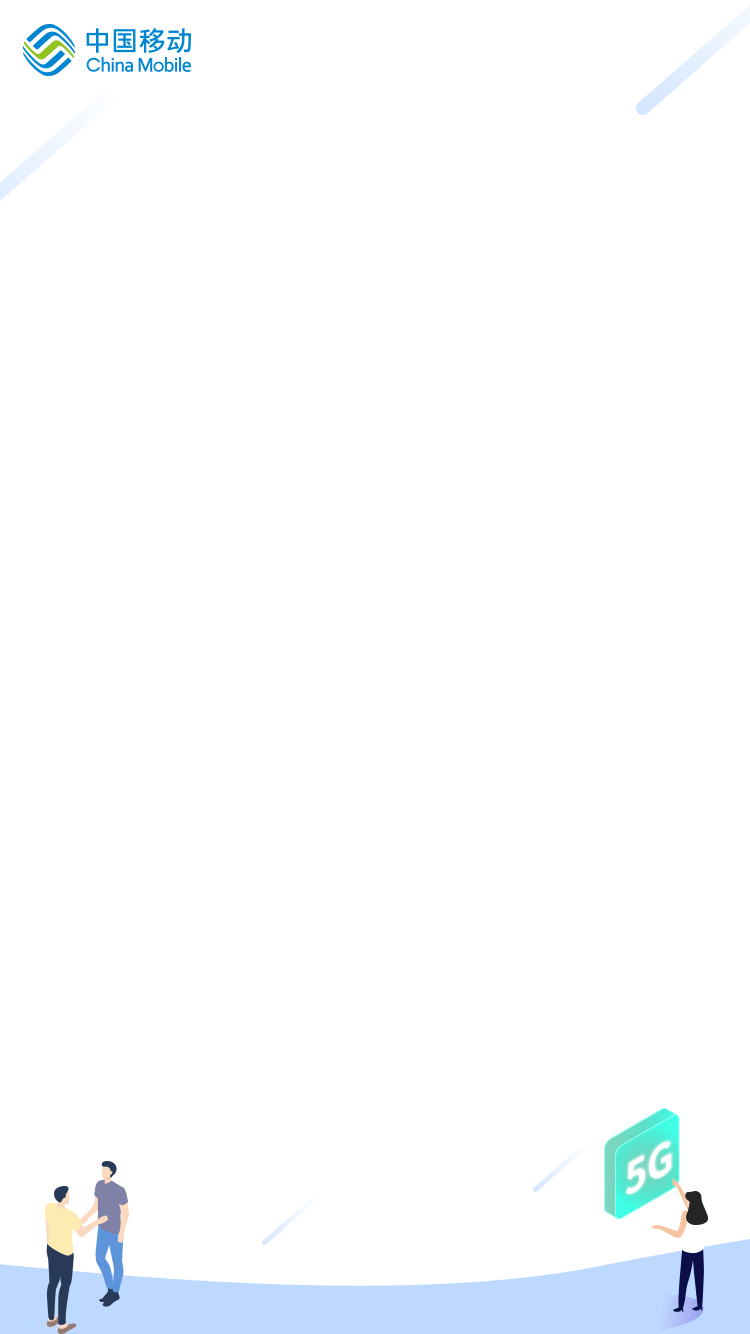
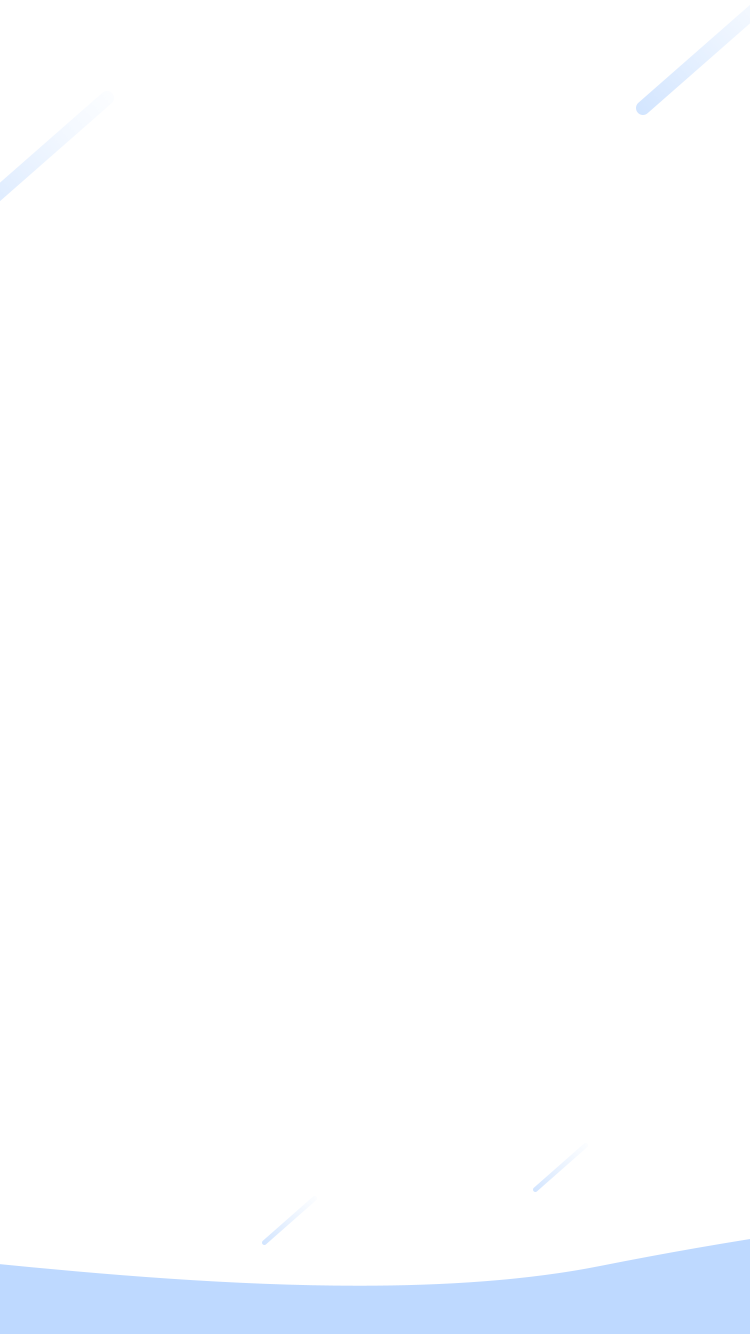
1

Changed region(s): [[0.7973, 0.8298, 0.9507, 1.0], [0.0307, 0.0, 0.276, 0.0615], [0.0613, 0.8606, 0.184, 1.0]]

diff --git a/notice/mobile.html b/notice/mobile.html
@@ -4,7 +4,8 @@
 <head>
   <meta charset="UTF-8">
   <title>中国移动权益合作伙伴公开招募公告</title>
-  <meta name="viewport" content="width=device-width,initial-scale=1.0">
+  <!-- <meta name="viewport" content="width=device-width,initial-scale=1.0"> -->
+  <meta name="viewport" content="width=device-width, initial-scale=1.0, maximum-scale=1.0, minimum-scale=1.0, user-scalable=no">
   <style>
     html,
     body {
@@ -177,6 +178,22 @@
       position: fixed;
       bottom: 0;
     }
+    .m-notice-bg-img .footer .left_foot{
+      position: absolute;
+      left: 6%;
+      bottom: 1%;
+      width: 12%;
+      height: auto;
+      max-width: 50px;
+    }
+    .m-notice-bg-img .footer .right_foot{
+      position: absolute;
+      right: 7%;
+      bottom: 11%;
+      width: 13%;
+      height: auto;
+      max-width: 50px;
+    }
     .m-notice-bg-img .m_notice_logo{
       width: 100%;
       height: 6.5%;
@@ -185,192 +202,19 @@
       position: fixed;
       top: 0;
     }
-    @media all and (orientation: landscape) {
-      html{
-        background: #fff;
-      }
-      body {
-      /* min-width: 0px !important; */
-      height: 100%;
-      margin: 0;
-      /* background: url('static/m_notice.png') no-repeat center center; */
-      position: relative;
-      background-size: 70% 100%;
-      width: 70%;
-      height: 100%!important;
-      font-family: "微软雅黑";
-      letter-spacing: 0.02rem;
-      /* background-attachment: fixed; */
-      /* max-width: 375px; */
-      margin: 0 15%;
-    }
-    body:before {
-      content: ' ';
-      width: 70%;
-      position: fixed;
-      z-index: -1;
-      top: 0;
-      right: 0;
-      bottom: 0;
-      left:15%;
-      background: url('static/m_notice.png') no-repeat;
-      /* background-size: cover; */
-      background-size: 70% 100%;
-      }
-
-    .m-notice-bg-img {
-      /* max-width: 750px; */
-      /* background: url('static/m_notice.png') no-repeat center center;
-      position: relative;
-      background-size: 100% 100%;
-      width: 100%;
-      height: 100%;
-      font-family: "微软雅黑";
-      letter-spacing: 0.02rem; */
-      position: relative;
-    }
-
-    .m-notice-bg-img .notice {
-      /* width: 2.95rem;
-      height: 4.92rem; */
-      width: 70%;
-      /* height: 73%; */
+    .m-notice-bg-img .m_notice_logo img {
+      width: 22%;
+      height: auto;
       position: absolute;
-      top: 0.6rem;
-      padding-left: 15%;
-      padding-right: 15%;
-      /*background: rgba(0, 0, 0, 0.3);*/
-      overflow: hidden;
-      overflow-y: auto;
-      overflow-x: hidden;
+      left: 3%;
+      top: 22%;
+      max-width: 80px;
     }
-
-    .m-notice-bg-img .vague {
-      position: fixed;
-      width: 70%;
-      height: 1rem;
-      /*// background-image: linear-gradient(to top, #fff);*/
-      /*// opacity: 0.5;*/
-      bottom: 16%;
-      /* left: 0; */
-      left: 15%;
-      margin: 0;
-      background: -moz-linear-gradient(to top, rgba(255, 255, 255, 1), rgba(255, 255, 255, 0));
-      background: -ms-linear-gradient(to top, rgba(255, 255, 255, 1), rgba(255, 255, 255, 0.1));
-      background: -webkit-gradient(linear, 0 0, 100% 0, from(rgba(255, 255, 255, 1)), to(rgba(255, 255, 255, 0)));
-      background: -webkit-linear-gradient(to top, rgba(255, 255, 255, 1), rgba(255, 255, 255, 0));
-      background: -o-linear-gradient(to top, rgba(255, 255, 255, 1), rgba(255, 255, 255, 0));
-      background: linear-gradient(to top, rgba(255, 255, 255, 1), rgba(255, 255, 255, 0));
+    @media only screen and (min-width: 729px) {
+      html,body {
+        font-size: 194px;;
+      }
     }
-
-    .m-notice-bg-img .notice_title {
-      font-size: 0.19rem;
-      /* text-align: center; */
-      color: #333333;
-      margin-top: 0.24rem;
-      margin-bottom: 0.24rem;
-      text-align: center;
-    }
-
-    .m-notice-bg-img .notice_condition {
-      color: #333333;
-      font-size: 0.16rem;
-      /*// padding-left: 10%;*/
-      /*// padding-right: 10%;*/
-      text-align: left;
-      margin-bottom: 2.96vh;
-    }
-
-    .m-notice-bg-img .notice_paragraph {
-      color: #333333;
-      font-size: 0.16rem;
-      /*// padding-left: 10%;*/
-      /*// padding-right: 10%;*/
-      text-align: left;
-      line-height: 0.24rem;
-      margin: 0;
-      margin-bottom: 0.1rem;
-    }
-
-    .m-notice-bg-img .notice_subtitle {
-      color: #333333;
-      font-size: 0.16rem;
-      font-weight: bold;
-      /*// padding-left: 10%;*/
-      line-height: 0.24rem;
-      margin: 0;
-      margin-bottom: 0.1rem;
-      text-indent: 2em;
-    }
-
-    .m-notice-bg-img .flowchar {
-      color: #333333;
-      font-size: 0.16rem;
-      /*// padding-left: 10%;*/
-      /*// padding-right: 10%;*/
-      text-align: left;
-      line-height: 0.24rem;
-      margin: 0;
-    }
-
-    .m-notice-bg-img .flowchar img {
-      width: 100%;
-      height: 100%;
-    }
-
-    .m-notice-bg-img .notice_enclosure {
-      margin-top: 0.2rem;
-      font-size: 0.16rem;
-      /*// padding-left: 10%;*/
-    }
-
-    .m-notice-bg-img .notice_ending {
-      margin-top: 0.2rem;
-      font-size: 0.16rem;
-      /*// padding-right: 10%;*/
-      float: right;
-      text-align: center;
-    }
-
-    .m-notice-bg-img .notice_span {
-      text-indent: 2em;
-      display: block;
-    }
-
-    .m-notice-bg-img .notice_ending span {
-      color: #333333;
-      display: inline-block;
-      margin-bottom: 0.1rem;
-    }
-
-    .m-notice-bg-img .download {
-      height: 0.20rem;
-      width: 0.20rem;
-      display: inline-block;
-      background: url(./static/xiazai.png) no-repeat center center;
-      background-size: 100% 100%;
-      margin-right: 0.10rem;
-    }
-
-    .m-notice-bg-img .footer {
-      width: 70%;
-      height: 24%;
-      background: url(./static/m_notice-footer.png) no-repeat;
-      background-size: 100% 100%;
-      position: fixed;
-      left: 15%;
-      bottom: 0;
-    }
-    .m-notice-bg-img .m_notice_logo{
-      width: 70%;
-      height: 10.5%;
-      background: url(./static/m_notice_logo.png) no-repeat;
-      background-size: 100% 100%;
-      position: fixed;
-      left: 15%;
-      top: 0;
-    }
-  }
   </style>
 </head>
 <script>
@@ -386,7 +230,11 @@
       if (clientWidth != baseWidth) {
         rem = Math.floor(clientWidth / baseWidth * baseFontSize);
       }
-      document.querySelector('html').style.fontSize = rem + 'px';
+      if(rem<=194){
+        document.querySelector('html').style.fontSize = rem + 'px';
+      } else {
+        document.querySelector('html').style.fontSize = 194 + 'px';
+      }
     }
     set();
     window.addEventListener('resize', set);
@@ -460,8 +308,11 @@
       </p>
       <p class="vague"></p>
     </div>
-    <div class="footer"></div>
-    <div class="m_notice_logo"></div>
+    <div class="footer">
+      <img src="./static/left-man.png" alt="" class="left_foot">
+      <img src="./static/right-man.png" alt="" class="right_foot">
+    </div>
+    <div class="m_notice_logo"><img src="./static/notice-logo.png" alt=""></div>
   </div>
 </body>
 

diff --git a/notice/index.html b/notice/index.html
@@ -159,7 +159,7 @@
     var sUserAgent = navigator.userAgent.toLowerCase();
     if (/phone|pad|pod|iPhone|iPod|ios|iPad|Android|Mobile|BlackBerry|IEMobile|MQQBrowser|JUC|Fennec|wOSBrowser|BrowserNG|WebOS|Symbian|Windows Phone/.test(navigator.userAgent)) {
       //跳转移动端页面
-      window.location.href="./mobile.html";
+      window.location.href="./mobile.html?sid=60000";
     }
   }
   browserRedirect();
